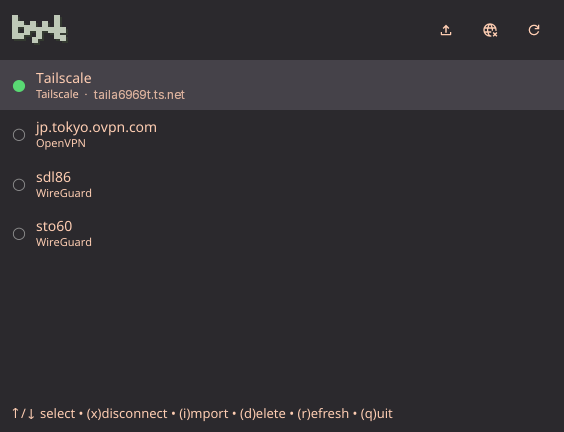
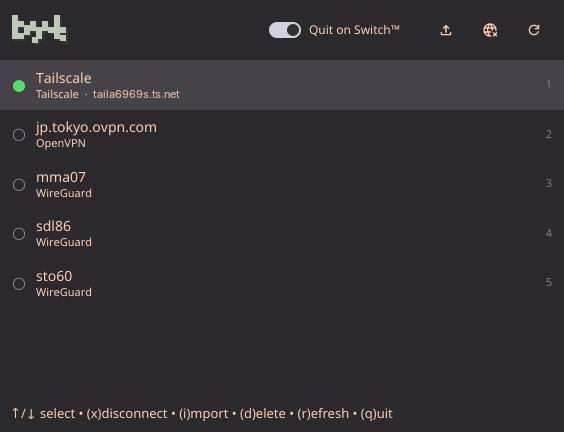
chore(readme): new image to include new feature

diff --git a/README.md b/README.md
@@ -88,5 +88,5 @@ real provider files.
 </p>
 
 <p align="center">
-  How it looks as of v0.3.6. I'll update this if anything major changes.
+  _How it looks as of v0.4.0. I'll update this if anything major changes._
 </p>
